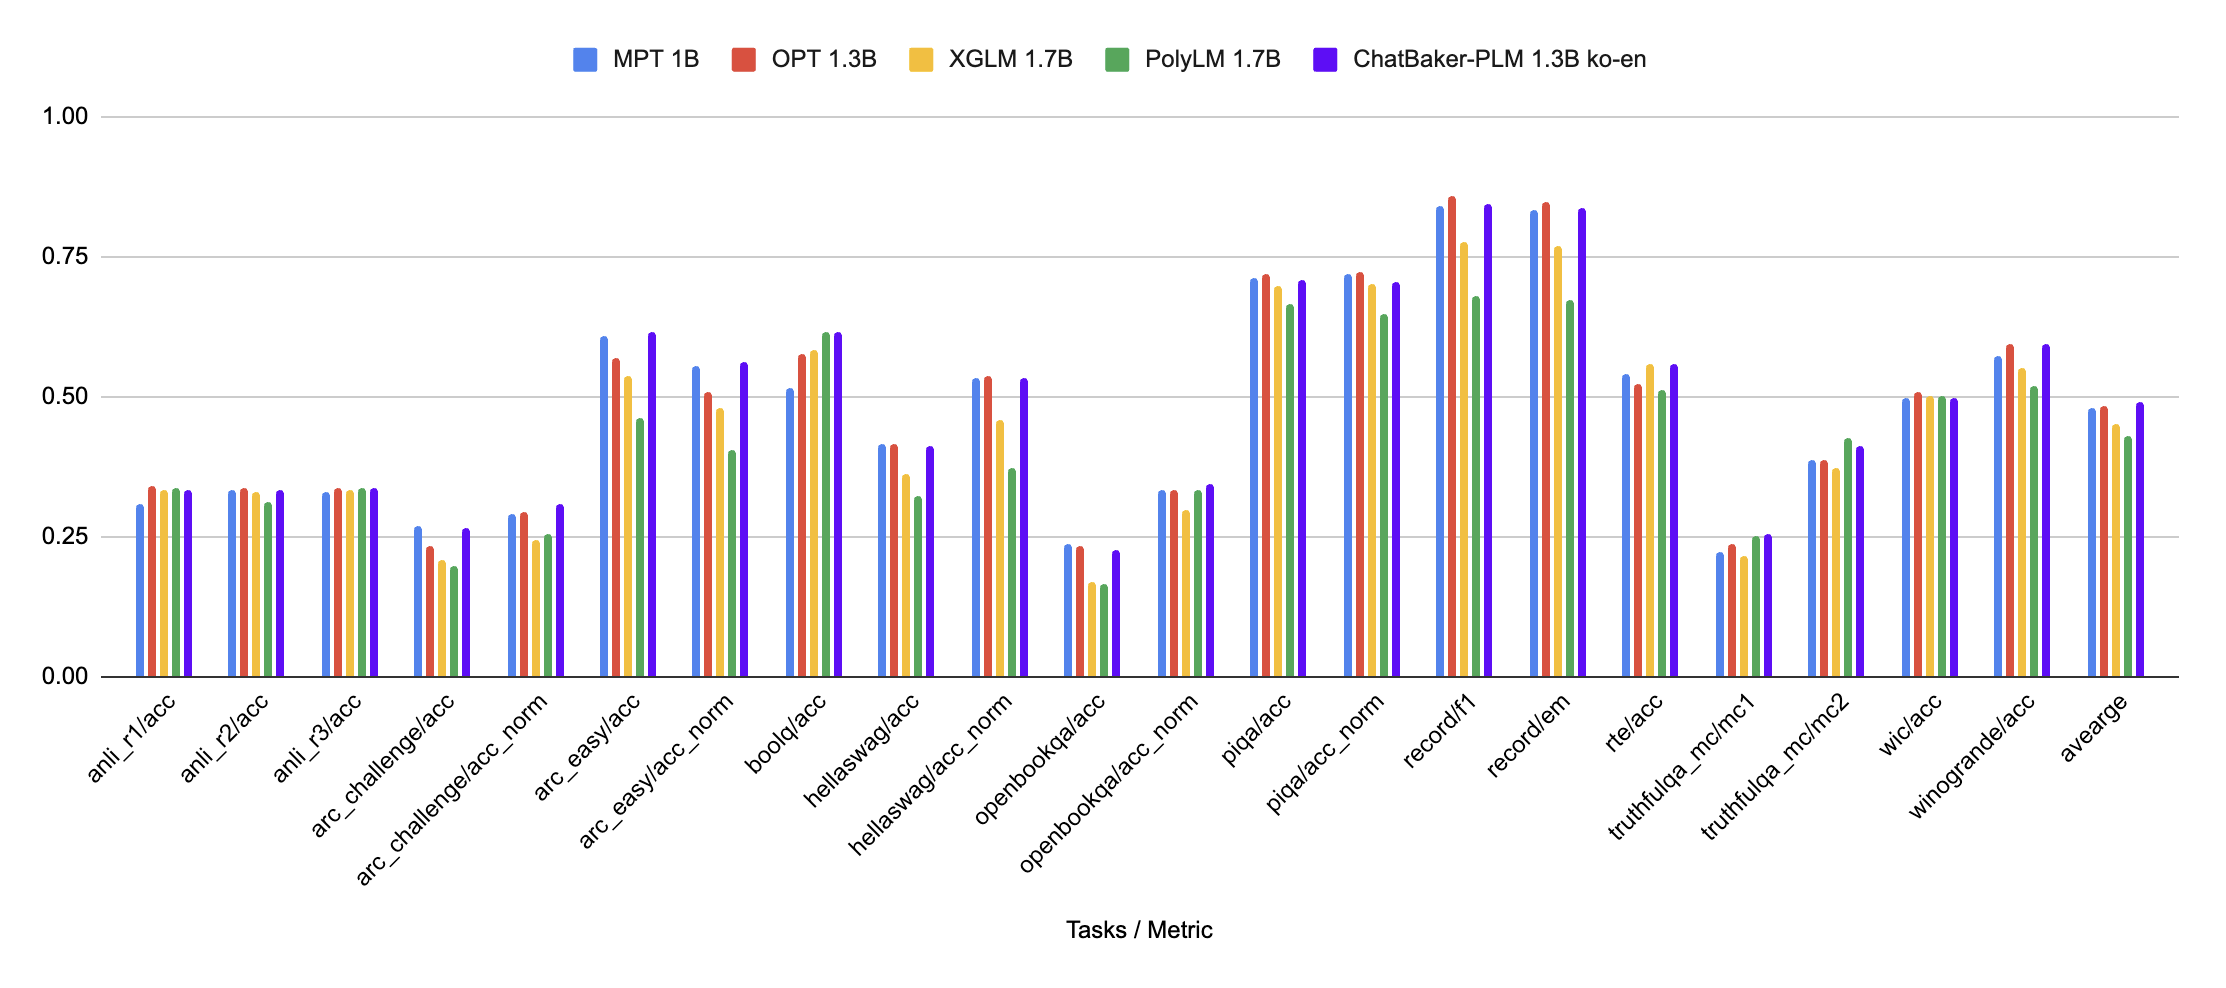
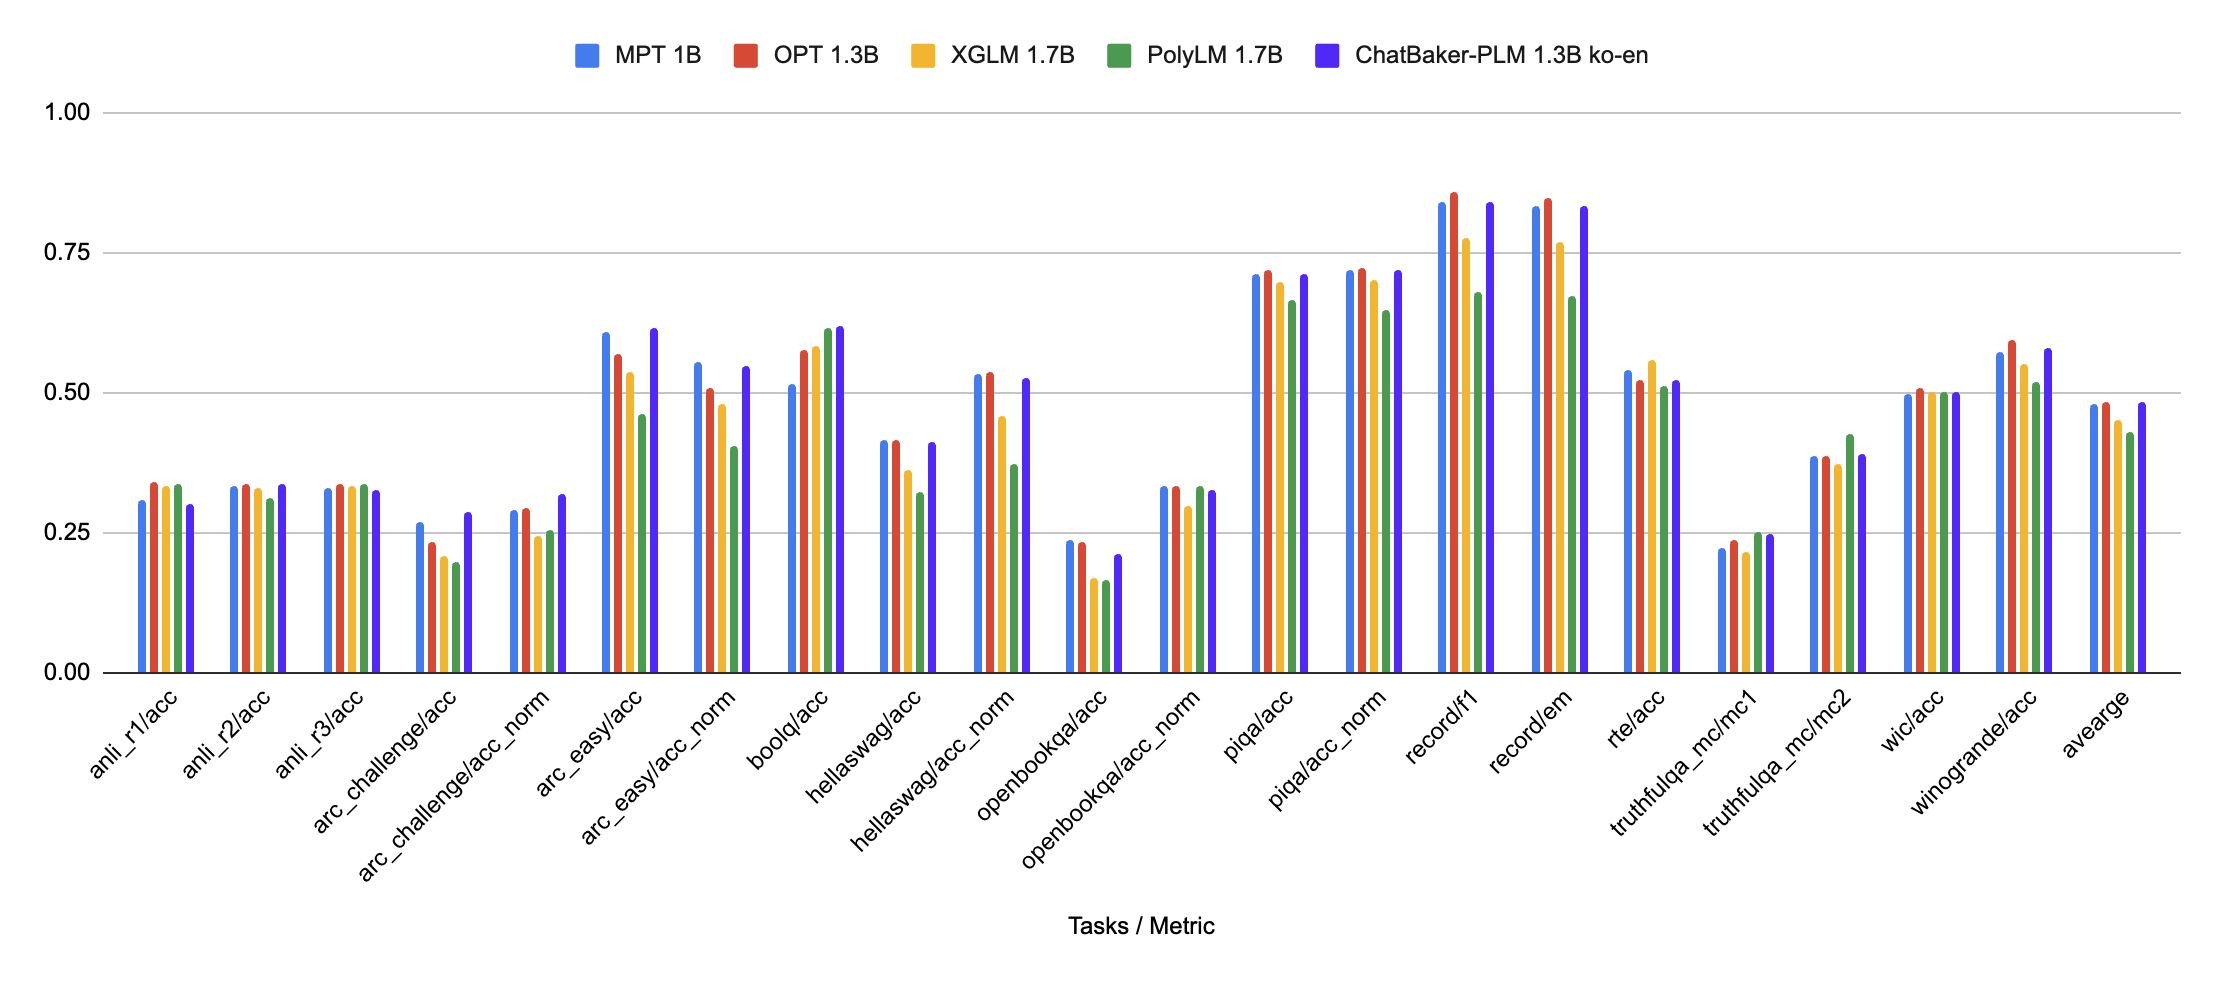
벤치마크 업데이트

diff --git a/README.md b/README.md
@@ -146,13 +146,13 @@ ChatBaker-PLM 1.3B 및 비슷한 파라미터 크기의 타 PLM과의 성능을 
 
 |Tasks / Metric|KoGPT2 <br>1.2B|Polygolt-ko <br>1.3B|ChatBaker-PLM <br>1.3B ko|XGLM <br>1.7B|PolyLM <br>1.7B|ChatBaker-PLM <br>1.3B ko-en|
 |--------------|-----------|----------------|---------------------|---------|-----------|------------------------|
-|boolq         |0.337      |0.355           |**0.588**                |0.502    |0.334      |0.334                   |
-|copa          |0.67       |0.721           |**0.746**                |0.616    |0.513      |0.724                   |
-|hellaswag     |0.404      |0.401           |**0.458**                |0.374    |0.321      |0.442                   |
-|sentineg      |0.606      |0.679           |0.562                |0.46     |0.382      |**0.634**                   |
-|wic           |0.328      |0.328           |**0.364**                |0.328    |0.328      |0.329                   |
+|boolq         |0.337      |0.355           |**0.588**                |0.502    |0.334      |0.424                   |
+|copa          |0.67       |0.721           |**0.746**                |0.616    |0.513      |0.698                   |
+|hellaswag     |0.404      |0.401           |**0.458**                |0.374    |0.321      |0.438                   |
+|sentineg      |0.606      |0.679           |0.562                |0.46     |0.382      |**0.74**                   |
+|wic           |0.328      |0.328           |**0.364**                |0.328    |0.328      |0.328                   |
 | | | | | | | |
-|**average**       |0.469      |0.497           |**0.544**                |0.456    |0.376      |0.493                   |
+|**average**       |0.469      |0.497           |**0.544**                |0.456    |0.376      |0.526                   |
 
 <figure align="center">
 <img src="asset/plm_benchmark_ko.png" width="90%" height="90%"/>
@@ -172,29 +172,29 @@ ChatBaker-PLM 1.3B 및 비슷한 파라미터 크기의 타 PLM과의 성능을 
 
 | Tasks / Metric         | MPT <br>1B | OPT <br>1.3B | XGLM <br>1.7B | PolyLM <br>1.7B | ChatBaker-PLM <br>1.3B ko-en |
 | ---------------------- | ------ | -------- | --------- | ----------- | ------------------------ |
-| anli_r1/acc            | 0.309  | **0.341**    | 0.334     | 0.336       | 0.332                    |
-| anli_r2/acc            | 0.334  | **0.339**    | 0.331     | 0.314       | 0.333                    |
-| anli_r3/acc            | 0.33   | 0.336    | 0.333     | **0.339**       | 0.337                    |
-| arc_challenge/acc      | **0.268**  | 0.234    | 0.21      | 0.198       | 0.267                    |
-| arc_challenge/acc_norm | 0.291  | 0.295    | 0.243     | 0.256       | **0.31**                     |
-| arc_easy/acc           | 0.608  | 0.571    | 0.537     | 0.461       | **0.616**                    |
-| arc_easy/acc_norm      | 0.555  | 0.51     | 0.479     | 0.404       | **0.564**                    |
-| boolq/acc              | 0.517  | 0.578    | 0.585     | **0.617**       | **0.617**                  |
-| hellaswag/acc          | **0.415**  | **0.415**    | 0.362     | 0.322       | 0.414                    |
-| hellaswag/acc_norm     | 0.532  | **0.537**    | 0.458     | 0.372       | 0.533                    |
-| openbookqa/acc         | **0.238**  | 0.234    | 0.17      | 0.166       | 0.226                    |
-| openbookqa/acc_norm    | 0.334  | 0.334    | 0.298     | 0.334       | **0.346**                    |
-| piqa/acc               | 0.714  | **0.718**    | 0.697     | 0.667       | 0.708                    |
-| piqa/acc_norm          | 0.72   | **0.724**    | 0.703     | 0.649       | 0.706                    |
-| record/f1              | 0.84   | **0.857**    | 0.775     | 0.681       | 0.845                    |
-| record/em              | 0.832  | **0.849**    | 0.769     | 0.674       | 0.837                    |
-| rte/acc                | 0.541  | 0.523    | **0.559**     | 0.513       | 0.56                     |
-| truthfulqa_mc/mc1      | 0.224  | 0.237    | 0.215     | 0.251       | **0.255**                    |
-| truthfulqa_mc/mc2      | 0.387  | 0.386    | 0.373     | **0.428**       | 0.411                    |
-| wic/acc                | 0.498  | **0.509**    | 0.503     | 0.5         | 0.497                    |
-| winogrande/acc         | 0.574  | **0.595**    | 0.55      | 0.519       | **0.595**                    |
+| anli_r1/acc            | 0.309  | **0.341**    | 0.334     | 0.336       | 0.303                    |
+| anli_r2/acc            | 0.334  | **0.339**    | 0.331     | 0.314       | 0.337                    |
+| anli_r3/acc            | 0.33   | 0.336    | 0.333     | **0.339**       | 0.328                    |
+| arc_challenge/acc      | 0.268  | 0.234    | 0.21      | 0.198       | **0.287**                    |
+| arc_challenge/acc_norm | 0.291  | 0.295    | 0.243     | 0.256       | **0.319**                     |
+| arc_easy/acc           | 0.608  | 0.571    | 0.537     | 0.461       | **0.617**                    |
+| arc_easy/acc_norm      | **0.555**  | 0.51     | 0.479     | 0.404       | 0.548                    |
+| boolq/acc              | 0.517  | 0.578    | 0.585     | 0.617       | **0.62**                  |
+| hellaswag/acc          | **0.415**  | **0.415**    | 0.362     | 0.322       | 0.412                    |
+| hellaswag/acc_norm     | 0.532  | **0.537**    | 0.458     | 0.372       | 0.527                    |
+| openbookqa/acc         | **0.238**  | 0.234    | 0.17      | 0.166       | 0.212                    |
+| openbookqa/acc_norm    | **0.334**  | **0.334**    | 0.298     | **0.334**       | 0.328                    |
+| piqa/acc               | 0.714  | **0.718**    | 0.697     | 0.667       | 0.711                    |
+| piqa/acc_norm          | 0.72   | **0.724**    | 0.703     | 0.649       | 0.721                    |
+| record/f1              | 0.84   | **0.857**    | 0.775     | 0.681       | 0.841                    |
+| record/em              | 0.832  | **0.849**    | 0.769     | 0.674       | 0.834                    |
+| rte/acc                | 0.541  | 0.523    | **0.559**     | 0.513       | 0.524                    |
+| truthfulqa_mc/mc1      | 0.224  | 0.237    | 0.215     | **0.251**       | 0.247                    |
+| truthfulqa_mc/mc2      | 0.387  | 0.386    | 0.373     | **0.428**       | 0.392                    |
+| wic/acc                | 0.498  | **0.509**    | 0.503     | 0.5         | 0.502                    |
+| winogrande/acc         | 0.574  | **0.595**    | 0.55      | 0.519       | 0.579                    |
 | | | | | | |
-| **avearge**                | 0.479  | 0.482    | 0.452     | 0.429       | **0.491**                    |
+| **avearge**                | 0.479  | 0.482    | 0.452     | 0.429       | **0.485**                    |
 
 <figure align="center">
 <img src="asset/plm_benchmark_en.png" width="90%" height="90%"/>
